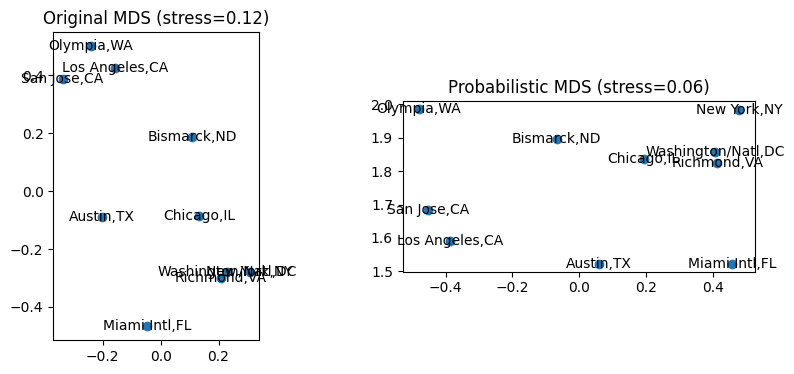
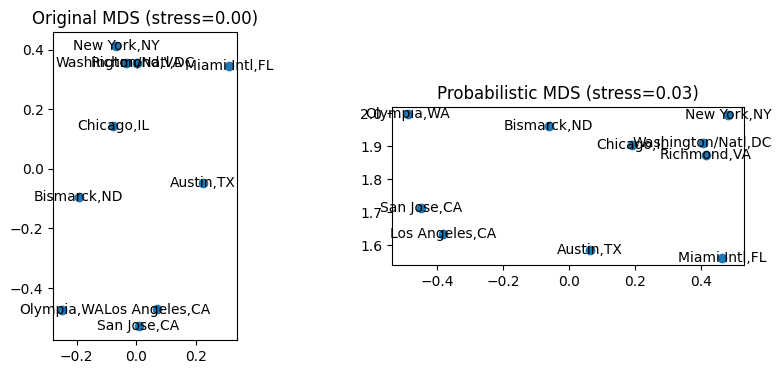
Using Adam optimizer, test with small cities_us_toy

diff --git a/pmds/pmds_MAP2.py b/pmds/pmds_MAP2.py
@@ -1,9 +1,8 @@
 # Latent variable Probabilistic MDS
 import random
 from time import time
+from functools import partial
 from pprint import pprint
-
-from numpy.lib.ufunclike import fix
 
 import wandb
 import jax
@@ -11,6 +10,7 @@ import jax.numpy as jnp
 import numpy as np
 from jax.scipy.special import i0e
 from jax.scipy.stats import multivariate_normal
+from jax.experimental.optimizers import adam
 
 from .score import stress, sammonZ
 
@@ -35,7 +35,8 @@ def log_prior_mu(mu, mu0, sigma0):
 log_prior_mu_batch = jax.vmap(log_prior_mu, in_axes=(0, 0, 0), out_axes=0)
 
 
-def loss_MAP(mu, D, i0, i1, mu0, sigma0, sigma_local, alpha):
+def loss_MAP(params, D, i0, i1, mu0, sigma0, sigma_local, alpha):
+    mu = params[0]
     mu_i, mu_j = mu[i0], mu[i1]
     sigma_ij = sigma_local[i0] + sigma_local[i1]
     d = jnp.linalg.norm(mu_i - mu_j, ord=2, axis=1, keepdims=1)
@@ -47,10 +48,48 @@ def loss_MAP(mu, D, i0, i1, mu0, sigma0, sigma_local, alpha):
         + jnp.log(i0e(D * d + EPSILON / sigma_ij))
     )
     log_mu_all = log_prior_mu_batch(mu, mu0, sigma0)
-    return jnp.sum(log_llh) + alpha * jnp.sum(log_mu_all)
+    # using Adam to minize the loss (maximize MAP)
+    return -jnp.sum(log_llh) - alpha * jnp.sum(log_mu_all)
 
 
-loss_and_grads_MAP = jax.jit(jax.value_and_grad(jax.jit(loss_MAP), argnums=[0]))
+# loss_and_grads_MAP = jax.jit(jax.value_and_grad(jax.jit(loss_MAP), argnums=[0]))
+loss_and_grads_MAP = jax.jit(jax.value_and_grad(jax.jit(loss_MAP)))
+
+
+# try to implement the optimization using jax
+def init_params(
+    n_samples,
+    n_components=2,
+    random_state=2021,
+    init_mu=None,
+    fixed_points=[],
+    sigma_local=1e-3,
+    sigma_fix=None,
+):
+    # global param for each mu
+    mu0 = jnp.zeros((n_samples, 2))
+    sigma0 = jnp.zeros((n_samples, 2, 2)) + jnp.eye(2)
+
+    if init_mu is not None:
+        mu = jnp.array(init_mu)
+        assert mu.shape == (n_samples, n_components)
+    else:
+        key_mu, _ = jax.random.split(jax.random.PRNGKey(random_state))
+        mu = jax.random.normal(key_mu, (n_samples, n_components))
+
+    # set prior for fixed points
+    if fixed_points:
+        sigma_fix = sigma_fix or FIXED_SCALE
+        print(f"[PMDS MAP2] using figma_fix={sigma_fix} with fixed points: ")
+        pprint(fixed_points)
+
+        fixed_indices, fixed_pos = map(jnp.array, zip(*fixed_points))
+        mu0 = jax.ops.index_update(mu0, fixed_indices, fixed_pos)
+        sigma0 = jax.ops.index_update(
+            sigma0, fixed_indices, sigma_fix * sigma0[fixed_indices]
+        )
+
+    return mu, mu0, sigma0
 
 
 def pmds_MAP2(
@@ -71,44 +110,40 @@ def pmds_MAP2(
     sigma_fix=None,  # sigma^2_{fix}
 ):
     # can multiply the log prior with factor N
-    if alpha is None:
-        alpha = n_samples - 1
+    alpha = alpha or n_samples
 
-    # global param for each mu
-    mu0 = jnp.zeros((n_samples, 2))
-    sigma0 = jnp.zeros((n_samples, 2, 2)) + jnp.eye(2)
-
+    # init latent vars and params
+    mu, mu0, sigma0 = init_params(
+        n_samples,
+        n_components,
+        random_state=random_state,
+        init_mu=init_mu,
+        fixed_points=fixed_points,
+        sigma_local=sigma_local,
+        sigma_fix=sigma_fix,
+    )
     # local variance for each point
     sigma_local = jnp.ones((2, 1)) * sigma_local
-
-    if init_mu is not None:
-        mu = jnp.array(init_mu)
-        assert mu.shape == (n_samples, n_components)
-    else:
-        key_mu, _ = jax.random.split(jax.random.PRNGKey(random_state))
-        mu = jax.random.normal(key_mu, (n_samples, n_components))
-        # mu = jnp.zeros((n_samples, 2))
-
-    # set prior for fixed points
-    if fixed_points:
-        sigma_fix = sigma_fix or FIXED_SCALE
-        print(f"[PMDS MAP2] using figma_fix={sigma_fix} with fixed points: ")
-        pprint(fixed_points)
-
-        fixed_indices, fixed_pos = map(jnp.array, zip(*fixed_points))
-        mu0 = jax.ops.index_update(mu0, fixed_indices, fixed_pos)
-        sigma0 = jax.ops.index_update(
-            sigma0, fixed_indices, sigma_fix * sigma0[fixed_indices]
-        )
 
     loss = 0.0
     total_time = 0
     all_loss = []
     mds_stress = sammon_err = -1.0
 
-    for epoch in range(epochs):
-        tic = time()
+    # optimizer
+    opt_init, opt_update, get_params = adam(step_size=lr)
+    opt_state = opt_init([mu])
 
+    @jax.jit
+    def update(epoch, opt_state, dists, i0, i1, mu0, sigma0, sigma_local, alpha):
+        params = get_params(opt_state)
+        loss, grads = loss_and_grads_MAP(
+            params, dists, i0, i1, mu0, sigma0, sigma_local, alpha
+        )
+        opt_state = opt_update(epoch, grads, opt_state)
+        return loss, opt_state
+
+    for epoch in range(epochs):
         # shuffle the observed pairs in each epoch
         batch = random.sample(p_dists, k=len(p_dists))
         # unpatch pairwise distances and indices of points in each pair
@@ -116,35 +151,11 @@ def pmds_MAP2(
         dists = jnp.array(dists).reshape(-1, 1)
         i0, i1 = map(jnp.array, zip(*pair_indices))
 
-        loss, [grads_mu] = loss_and_grads_MAP(
-            mu, dists, i0, i1, mu0, sigma0, sigma_local, alpha
+        loss, opt_state = update(
+            epoch, opt_state, dists, i0, i1, mu0, sigma0, sigma_local, alpha
         )
-        mu = mu + alpha * lr * grads_mu
-
-        if debug_D_squareform is not None:
-            mds_stress = stress(debug_D_squareform, mu)
-            # sammon_err = sammonZ(debug_D_squareform, mu)
-        print(
-            f"[DEBUG] epoch {epoch}, loss: {-loss:,.2f},"
-            f" stress: {mds_stress:,.2f}, "
-            # f" sammon: {sammon_err:,.2f}, "
-            f" in {(time() - tic):.2f}s"
-        )
-        total_time += time() - tic
-
         all_loss.append(loss)
-        lazylog(
-            epoch,
-            {
-                "loss": float(loss),
-                "stress": mds_stress,
-                "sammon": sammon_err,
-                "grad_mu1": hist(grads_mu[:, 0]),
-                "grad_mu2": hist(grads_mu[:, 1]),
-            },
-        )
+        print(f"{epoch}, {loss:,.2f}")
 
-    print(f"DONE: final loss: {loss:,.0f}; {epochs} epochs in {total_time:.2f}s")
-    metric_log({"total_loss": float(loss)})
-
+    mu = get_params(opt_state)[0]
     return mu, None, [all_loss, [], []], None

diff --git a/config.py b/config.py
@@ -549,7 +549,7 @@ pre_config = {
             n_components=2,
             batch_size=0,
             epochs=100,
-            learning_rate=1e-5,
+            learning_rate=0.5,  # Testing with Adam; old lr for GD: 1e-5,
             sigma_local=1e-3,
             # missing_pairs=0.0,
             random_state=42,
